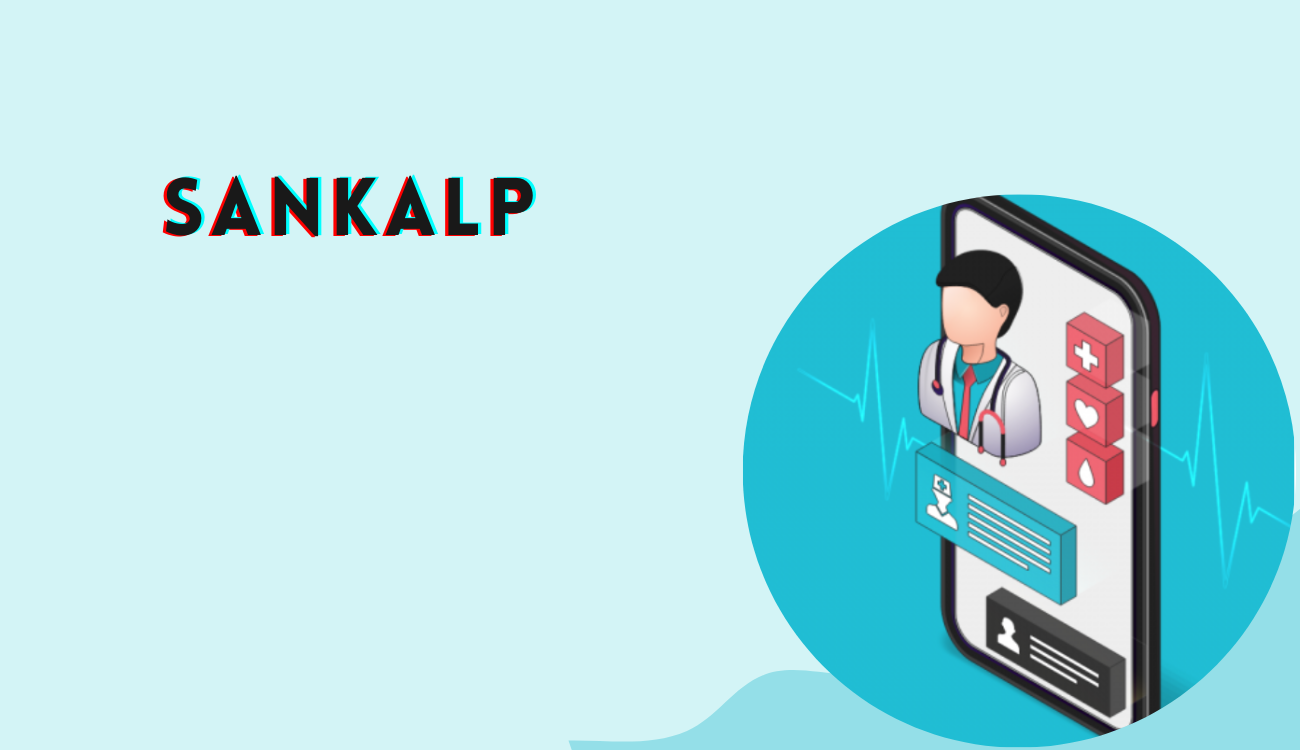
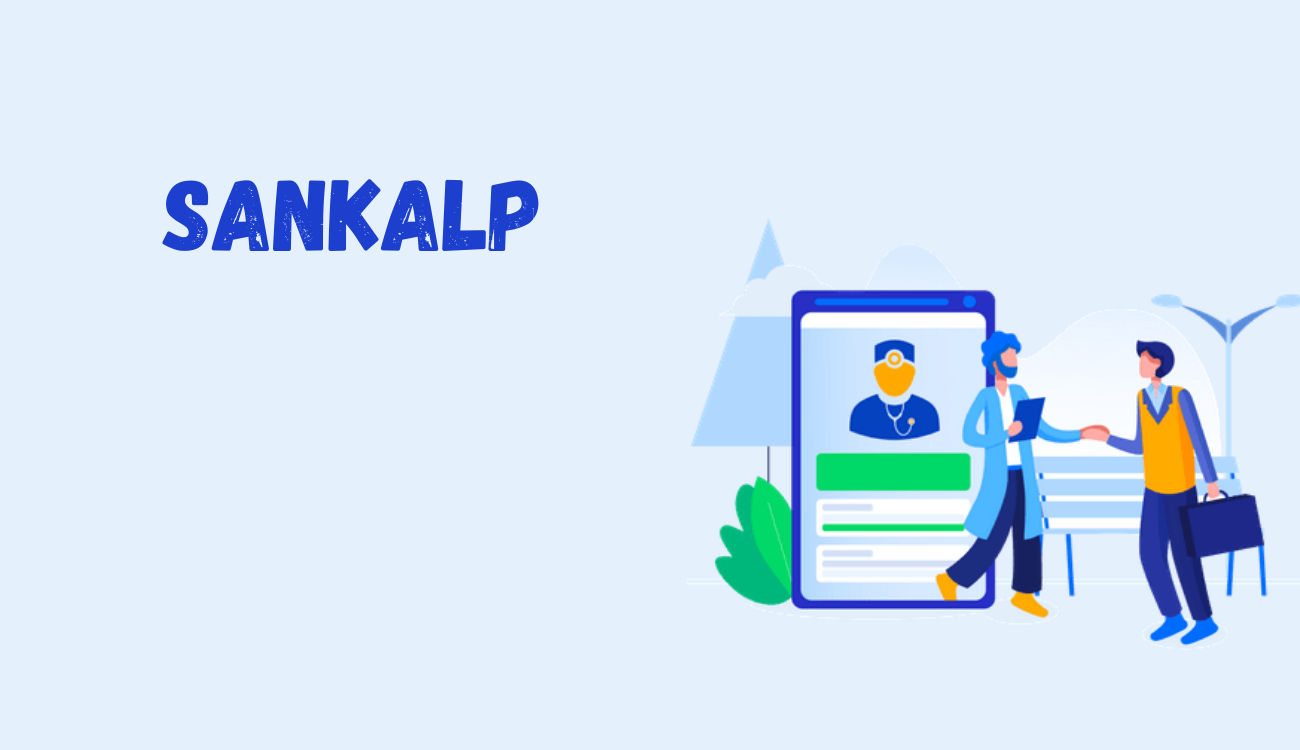
added files

Changed region(s): [[0.4308, 0.2453, 1.0, 1.0], [0.1231, 0.2147, 0.4308, 0.3373]]

diff --git a/route/doctor.js b/route/doctor.js
@@ -612,7 +612,7 @@ router.get('/searchAutocomplete',(req,res,next)=>{
 
 router.post('/homeDoc/:id',(req,res)=>{
   var answer=req.body.doubt;
-  answer=answer.concat(" ",`by Doctor:${req.user.name}`)
+  answer=answer.concat(" ",`by Dr.${req.user.name}`)
   var doubtId=req.params.id;
   Ask.findOne({doubtId:doubtId},(err,ask)=>{
     ask.answer.push(answer);

diff --git a/public/css/doctorHome.css b/public/css/doctorHome.css
@@ -36,7 +36,7 @@
     display: flex;
 }
 .doctor{
-      background-image: url('../images/home.png');
+      background-image: url('../images/profileDoc.png');
     background-attachment:fixed;
     background-size: cover;
     padding:2%;

diff --git a/public/css/styles.css b/public/css/styles.css
@@ -101,7 +101,7 @@ font-family: 'Bangers', cursive;
    
 .footer-bar
 {
-    background-color:rgb(140, 171, 177);
+    background-color:rgb(99, 158, 192);
     color:#f0f0f0;
     font-weight: 500;
     font-size: 18px;
